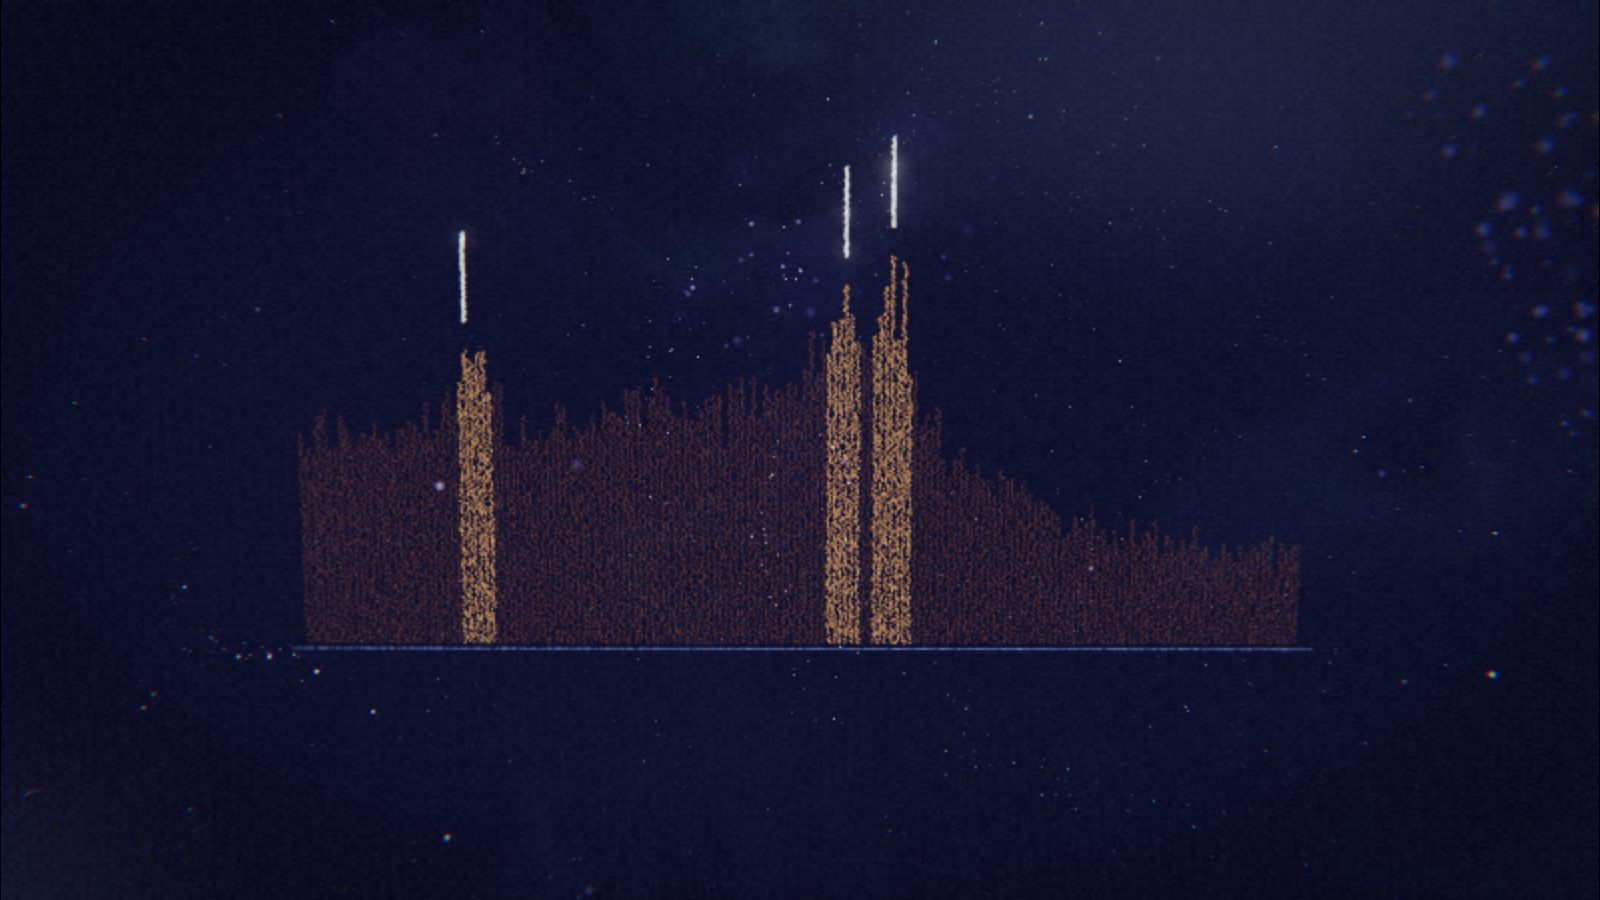
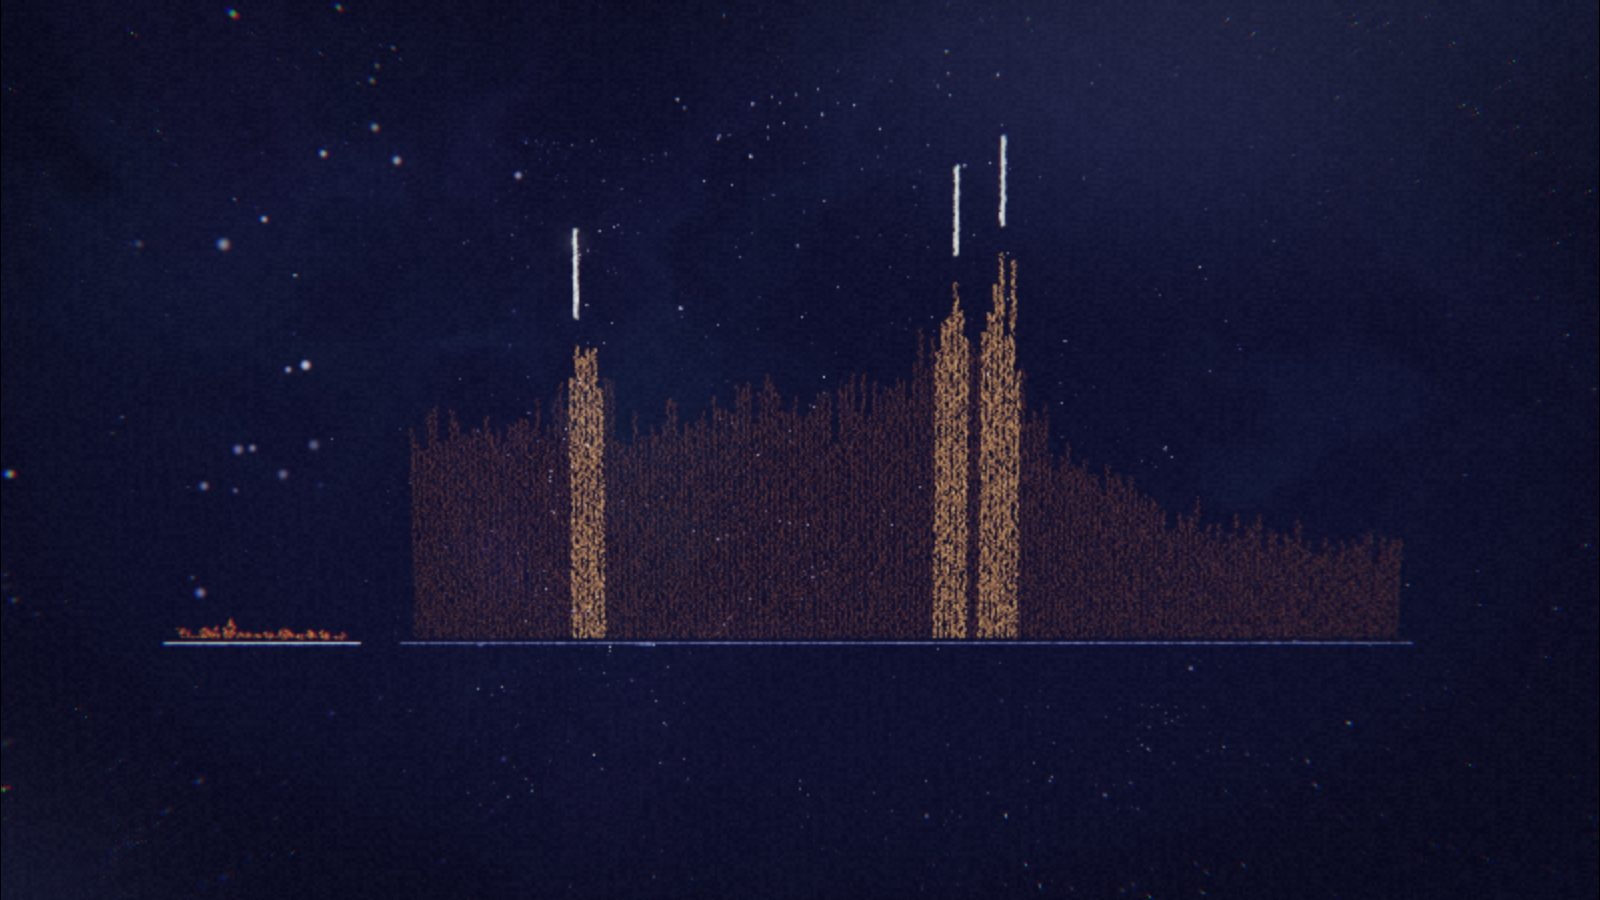
feat(uzsikrauk-karjerai): slide 9's still for the same-scale pair; notes (story, decisions)
Claude-Session: https://claude.ai/code/session_01HPWHZTZHfnAnVXNBwrmtg4

diff --git a/talks/2026_10_26_UzsikraukKarjerai/CLAUDE.md b/talks/2026_10_26_UzsikraukKarjerai/CLAUDE.md
@@ -39,7 +39,7 @@ Approved outline: `notes/outline-v5.md` with its two change sections
 | 6 | (photo) | LHCb cavern, StagePhoto: what LHCb studies and why |
 | 7 | „Vienas susidūrimas LHCb detektoriuje“ | LHCb Run 3 event display, StagePhoto: how a collision becomes a dot |
 | 8 | 2015 m. · „LHCb duomenyse iškilo smailė“ → 2019 m. · „Trys pentakvarkai“ | `jp`: LHCb's real 2019 m(J/ψ p) bins fill; ticks over the three peaks |
-| 9 | „Šimtus kartų daugiau duomenų nei 2003 m.“ | the full LHCb histogram, camera back |
+| 9 | labels only: „2003 m.“ · „LHCb, 2019 m.“ | `jx`: the 140-entry plot of slides 2–3 at LHCb's scale beside `jp` (one grain per entry, the same bin width and height per entry); a coordinate pose between them |
 | 10 | city labels | the route across Europe |
 | 11 | three things to do this school year | the form far off, dimmed |
 | 12 | „„Ko jūs savo darbe dar nežinote?““ alone | the form, held |
@@ -156,6 +156,21 @@ Approved outline: `notes/outline-v5.md` with its two change sections
 
 ## Decisions
 
+- 2026-10-09 — Ideas 1 and 3 (the owner's picks, through the Scheduler). Slide 9 no
+  longer says „nepriklausomas patikrinimas“: LHCb's check was its own internal
+  review, and other groups had also seen the 2003 bump. It now shows the
+  140-entry illustration from slides 2–3 beside LHCb's 27 292 candidates at
+  the same scale. A `jx` histogram at the lhcb station, x −14,4, has width
+  30 × 22/175 and `max: 297`, LHCb's tallest bin, so one grain is one entry
+  in both. It reads as a thin strip beside the heap. The speaker names the
+  two amounts and the significances: LEPS 4,6σ (the paper's own abstract;
+  19 events over 17 of background), 5σ as the usual discovery bar (Physics
+  World 2007 and LHCb's outreach page; new fact
+  `particle-physics-5-sigma-discovery`), and Pc(4312) 7,3σ. The notes keep
+  the left plot labelled as an illustration.
+- 2026-10-09 — Idea 7 (a "working day" slide after 10) waits for the owner. A draft
+  built only from verified public words (109 passages, 40 sources) is in
+  ~/talks/.cache/uzk-review/working-day-draft.md.
 - 2026-10-08 — Last focused review (talk-review on a0b80f8: facts since
   01bed17, copy, unslop; 15 kept). Applied: slide 9's screen line is now
   „Daugiau duomenų ir nepriklausomas patikrinimas“ (the „šimtus kartų“
